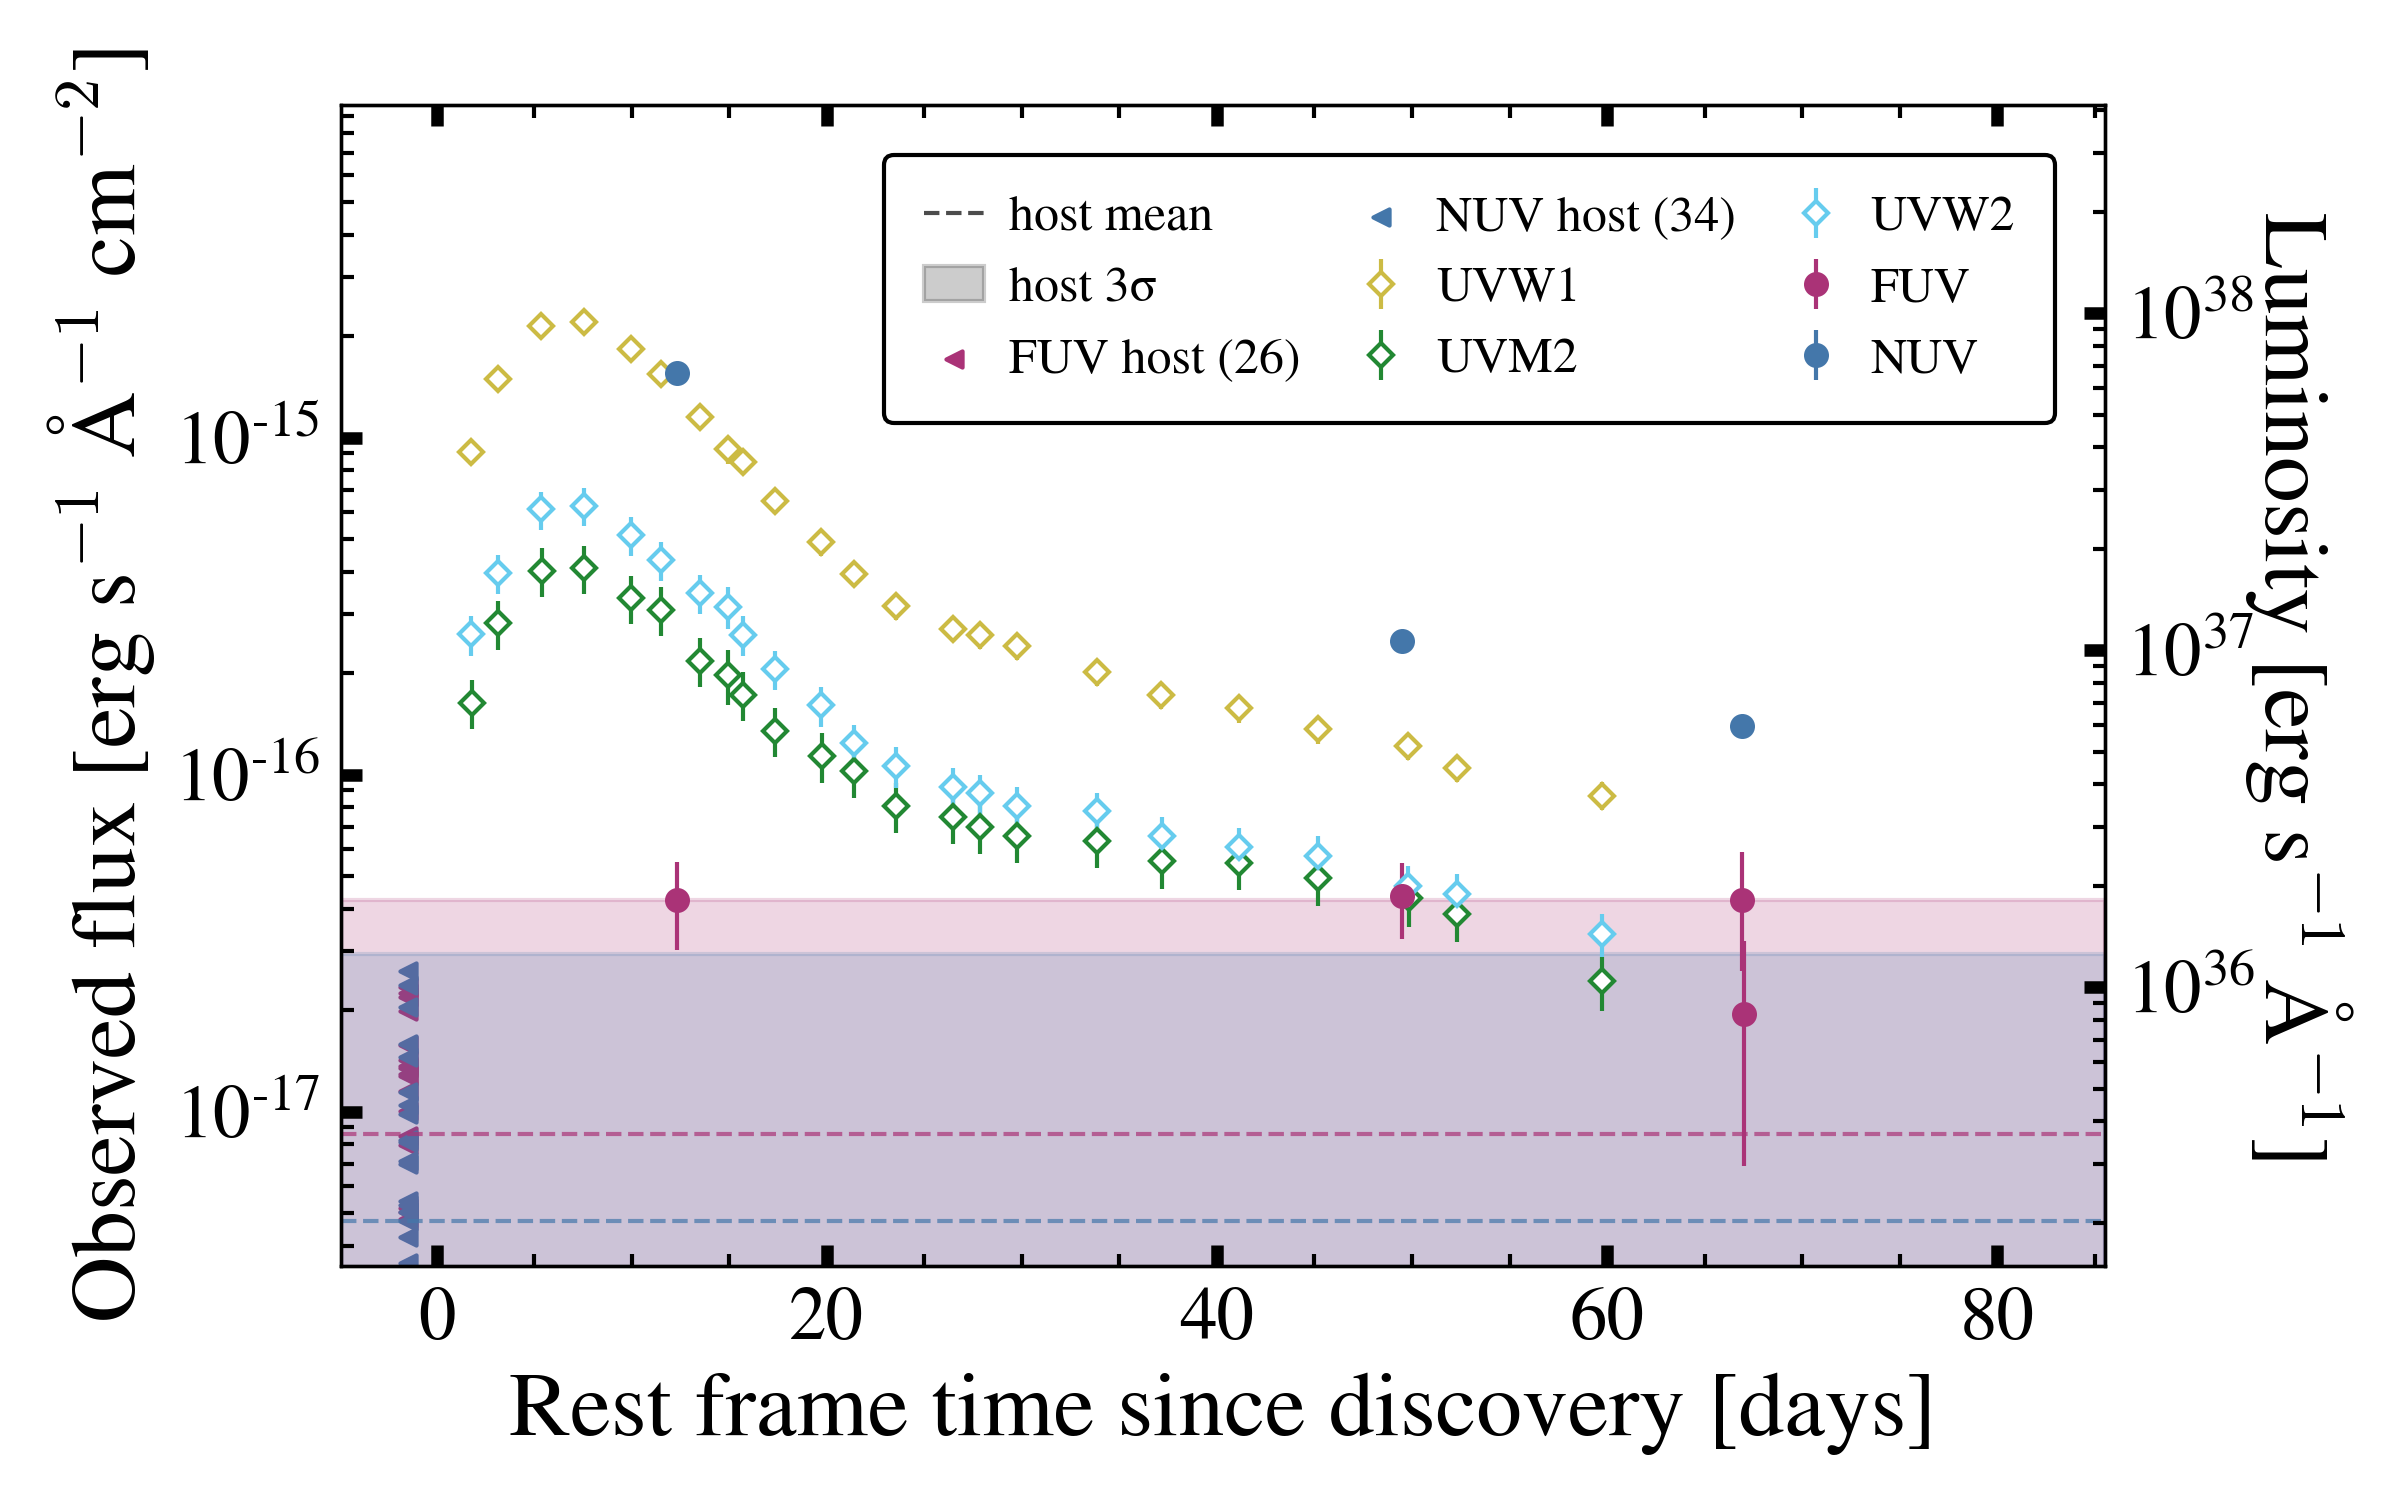
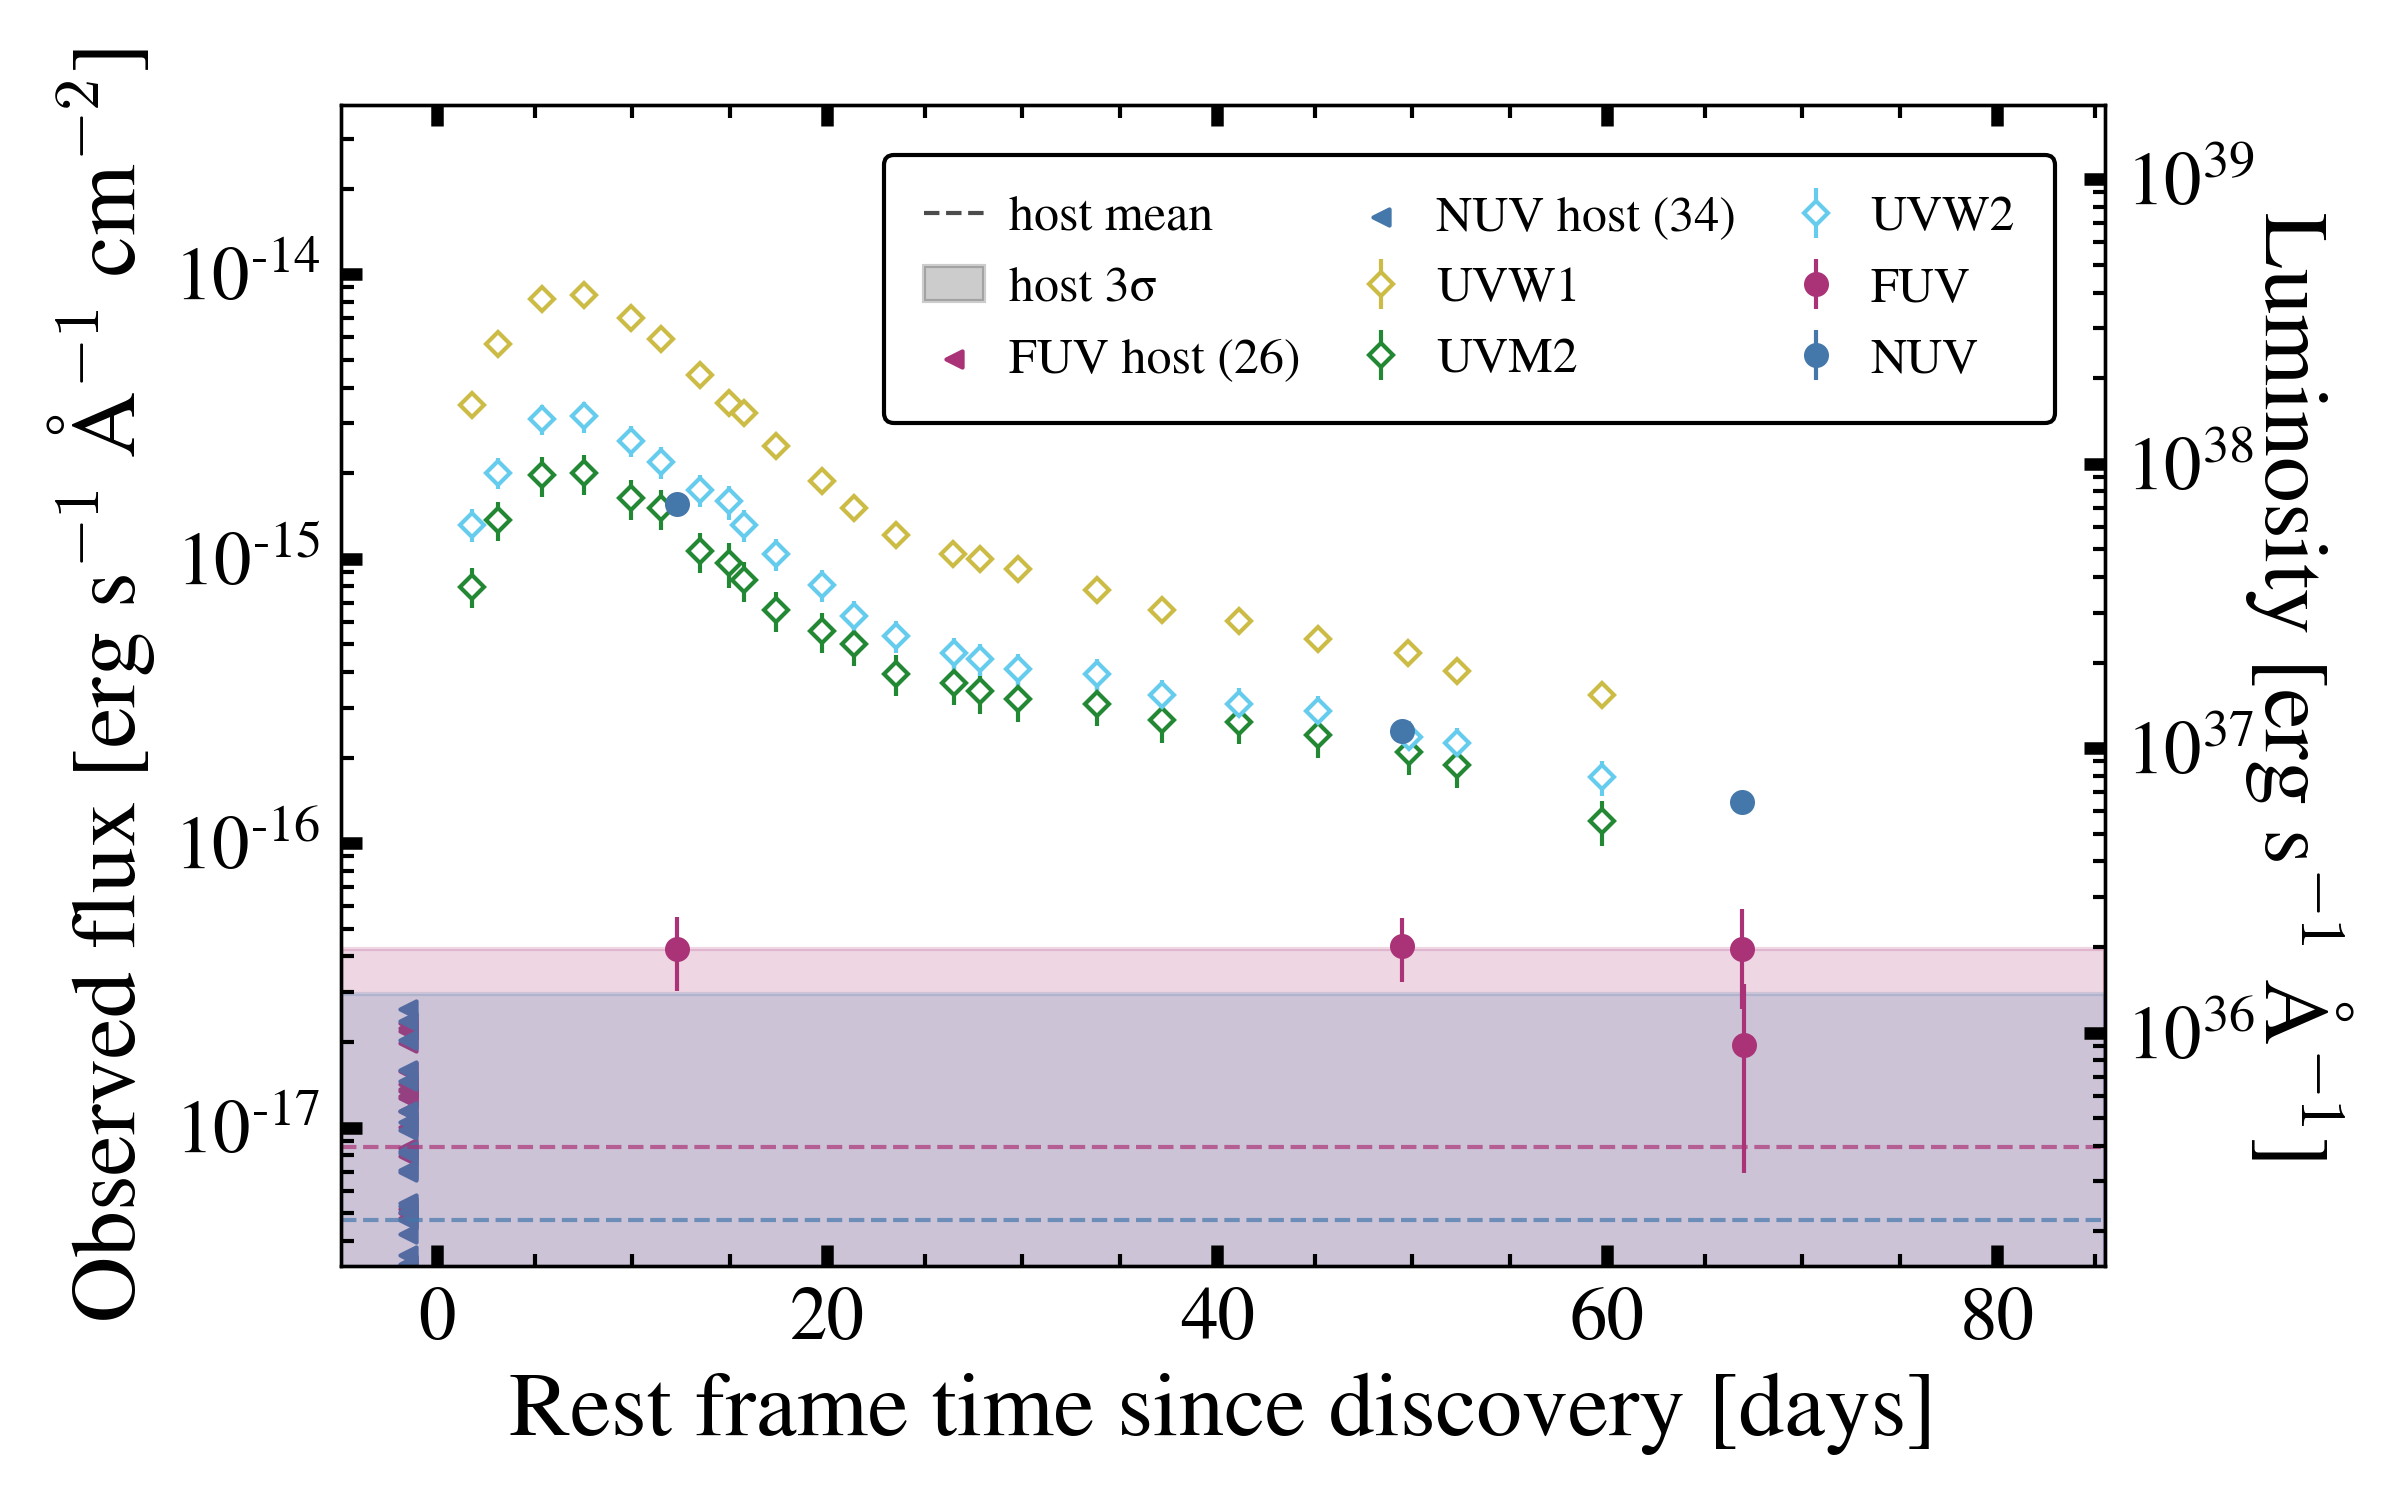
updated swift curves for paper plots

diff --git a/utils.py b/utils.py
@@ -98,7 +98,7 @@ GALEX_ZERO_POINT    = {'FUV': 18.82, 'NUV': 20.08}
 GALEX_FLUX_FACTOR   = {'FUV': 1.4e-15, 'NUV': 2.06e-16}
 # Bianchi values for Milky Way extinction (over E(B-V)), from Table 2
 GALEX_EXTINCTION    = {'FUV': 8.06, 'NUV': 7.95, 'U': 4.72, 'B': 4.02, 'V': 3.08}
-# Poole et al. 2007
+# Poole et al. 2008 (per Angstrom)
 SWIFT_ZERO_POINT    = {'V': 17.89, 'B': 19.11, 'U': 18.34, 'UVW1': 17.49, 
                        'UVM2': 16.82, 'UVW2': 17.35}
 SWIFT_ZERO_ERROR    = {'V': 0.013, 'B': 0.016, 'U': 0.020, 'UVW1': 0.03, 
@@ -559,31 +559,38 @@ def import_swift_lc(sn, sn_info):
     Imports light curve file from an external source (e.g. Swift)
     """
 
-    # Read CSV and select only Swift UVOT data
-    lc = pd.read_csv(EXTERNAL_LC_DIR / Path('%s_phot.csv' % sn))
-    lc = lc[(lc['telescope'] == 'Swift') & (lc['instrument'] == 'UVOT') & (lc['upperlimit'] == 'F')]
+    # Read CSV
+    lc = pd.read_csv(EXTERNAL_LC_DIR / Path('%s_uvotB15.1.dat' % sn), sep='\s+',
+            names=['Filter', 'MJD', 'Mag', 'MagErr', '3SigMagLim', '0.98SatLim', 
+            'Rate', 'RateErr', 'Ap', 'Frametime', 'Exp', 'Telapse'], comment='#')
+    # Remove limits
+    lc = lc[pd.notna(lc['Mag'])]
+    # lc = lc[(lc['telescope'] == 'Swift') & (lc['instrument'] == 'UVOT') & (lc['upperlimit'] == 'F')]
 
     # Add days relative to discovery date
     disc_date = Time(sn_info.loc[sn, 'disc_date'], format='iso')
-    lc['t_delta'] = lc['time'] - disc_date.mjd
-
-    # AB apparent and absolute magnitudes
-    dist = sn_info.loc[sn, 'pref_dist']
-    dist_err = sn_info.loc[sn, 'pref_dist_err']
-    z = sn_info.loc[sn, 'z']
-    lc['ab_mag'], lc['ab_mag_err'] = swift_vega2ab(
-            lc['magnitude'], lc['e_magnitude'], lc['band'])
-    lc['absolute_mag'], lc['absolute_mag_err'] = absolute_mag_err(
-            lc['ab_mag'], lc['ab_mag_err'], dist, dist_err)
-
-    # Convert to CPS, flux, and luminosity
-    lc['cps'], lc['cps_err'] = swift_mag2cps(lc['ab_mag'], lc['ab_mag_err'], lc['band'])
-    lc['flux'], lc['flux_err'] = swift_cps2flux(lc['cps'], lc['cps_err'], lc['band'])
-    # lc['luminosity'], lc['luminosity_err'] = absolute_luminosity_err(
-            # lc['flux'], lc['flux_err'], dist, dist_err, z)
+    lc['t_delta'] = lc['MJD'] - disc_date.mjd
 
     # Correct epoch for stretch factor
     lc['t_delta_rest'] = 1 / (1 + sn_info.loc[sn, 'z']) * lc['t_delta']
+
+    # Convert CPS to flux
+    lc['flux'], lc['flux_err'] = swift_cps2flux(lc['Rate'], lc['RateErr'], lc['Filter'])
+
+    # AB apparent and absolute magnitudes
+    # dist = sn_info.loc[sn, 'pref_dist']
+    # dist_err = sn_info.loc[sn, 'pref_dist_err']
+    # z = sn_info.loc[sn, 'z']
+    # lc['ab_mag'], lc['ab_mag_err'] = swift_vega2ab(
+    #         lc['magnitude'], lc['e_magnitude'], lc['band'])
+    # lc['absolute_mag'], lc['absolute_mag_err'] = absolute_mag_err(
+    #         lc['ab_mag'], lc['ab_mag_err'], dist, dist_err)
+
+    # Convert to CPS, flux, and luminosity
+    # lc['cps'], lc['cps_err'] = swift_mag2cps(lc['ab_mag'], lc['ab_mag_err'], lc['band'])
+    # lc['flux'], lc['flux_err'] = swift_cps2flux(lc['cps'], lc['cps_err'], lc['band'])
+    # lc['luminosity'], lc['luminosity_err'] = absolute_luminosity_err(
+            # lc['flux'], lc['flux_err'], dist, dist_err, z)
 
     return lc
 

diff --git a/fancy_plot.py b/fancy_plot.py
@@ -193,7 +193,7 @@ def plot_swift(ax, sn, sn_info, yscale, args):
     lc = lc[lc['t_delta'] <= args.max]
     bands = ['UVW1', 'UVM2', 'UVW2']
     for band in bands:
-        data = lc[lc['band'] == band]
+        data = lc[lc['Filter'] == band]
         if args.restframe:
             dt = data['t_delta_rest']
         else:
